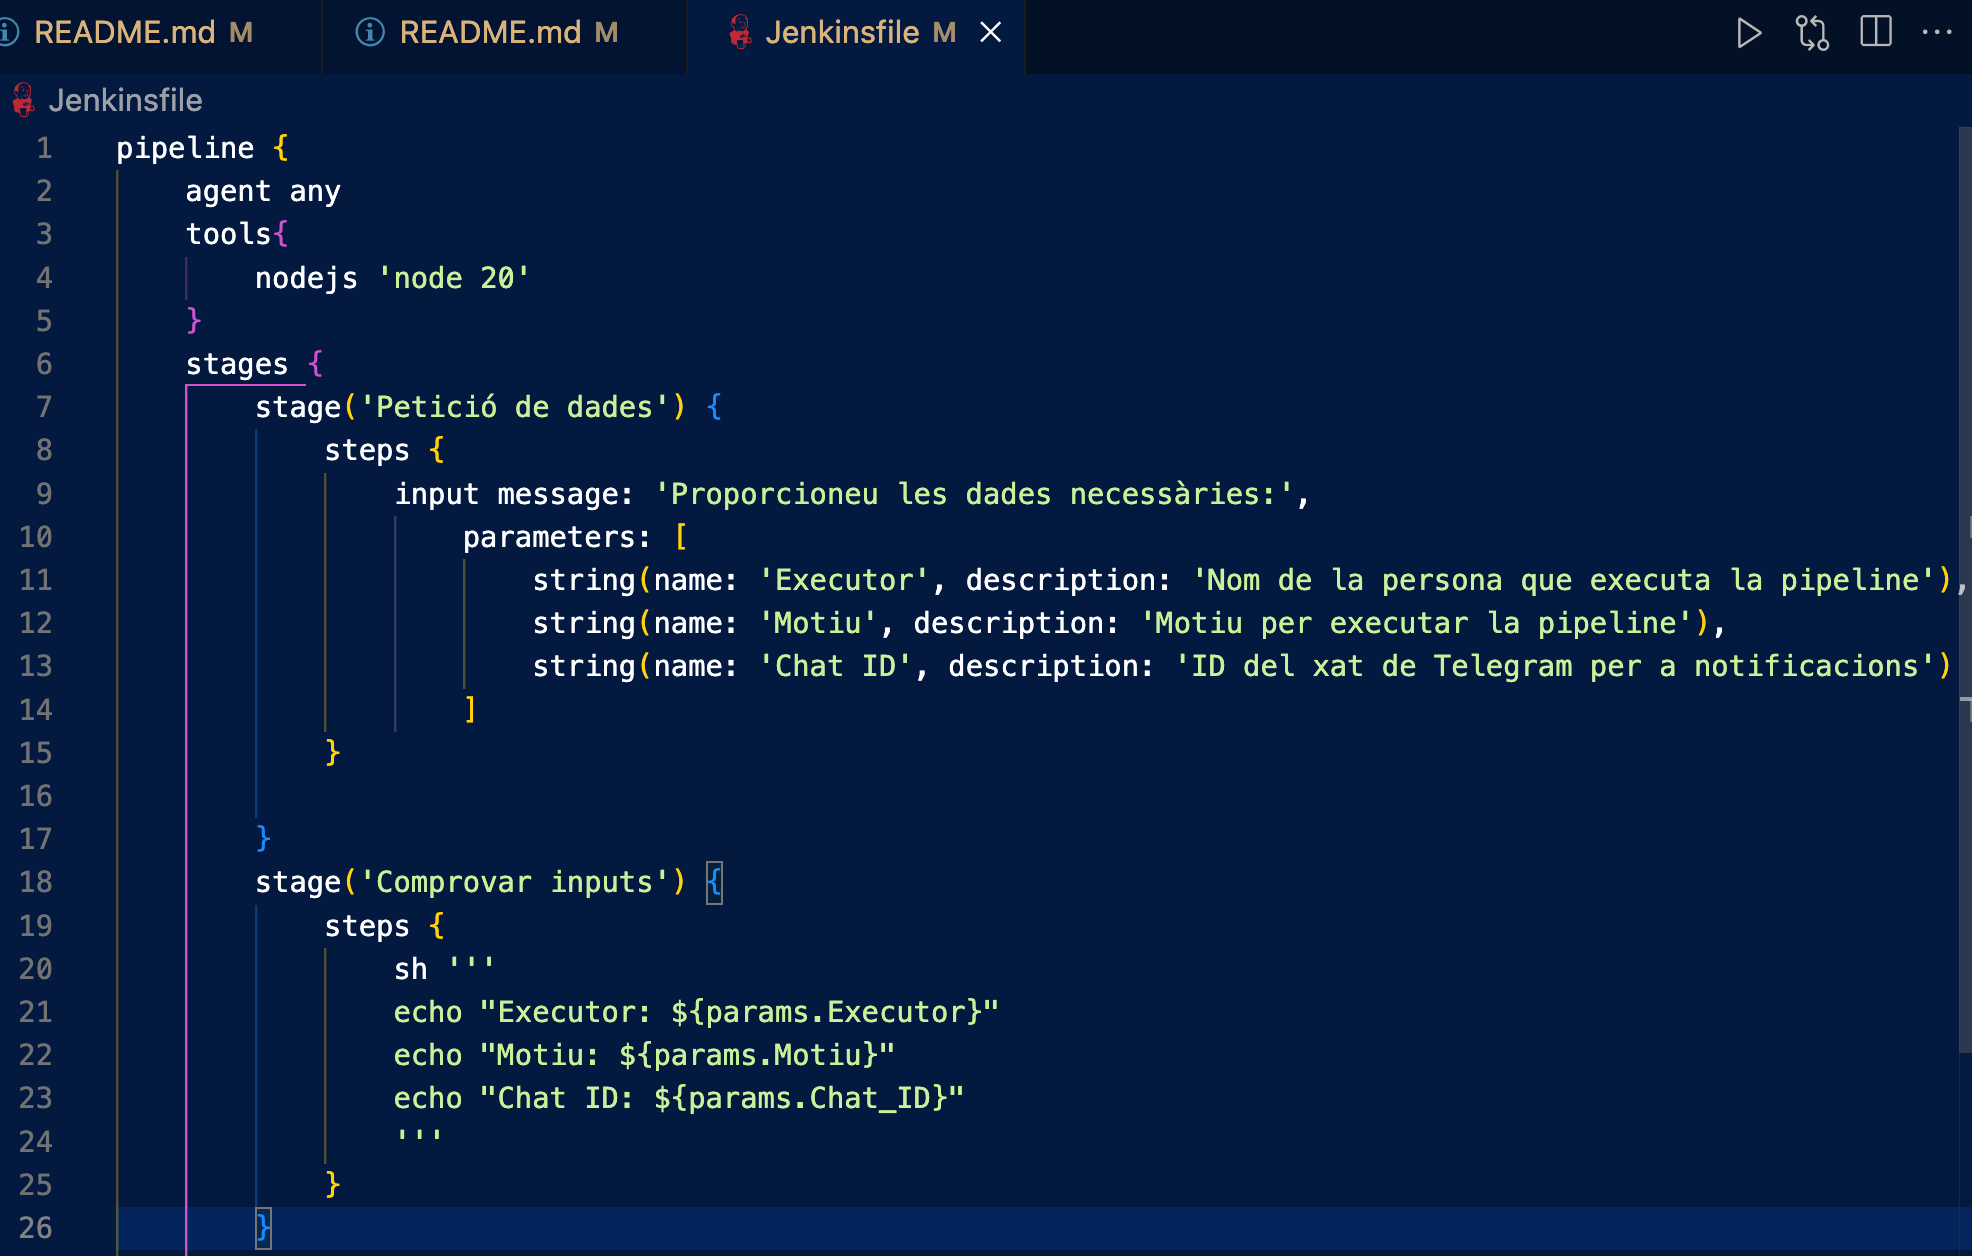
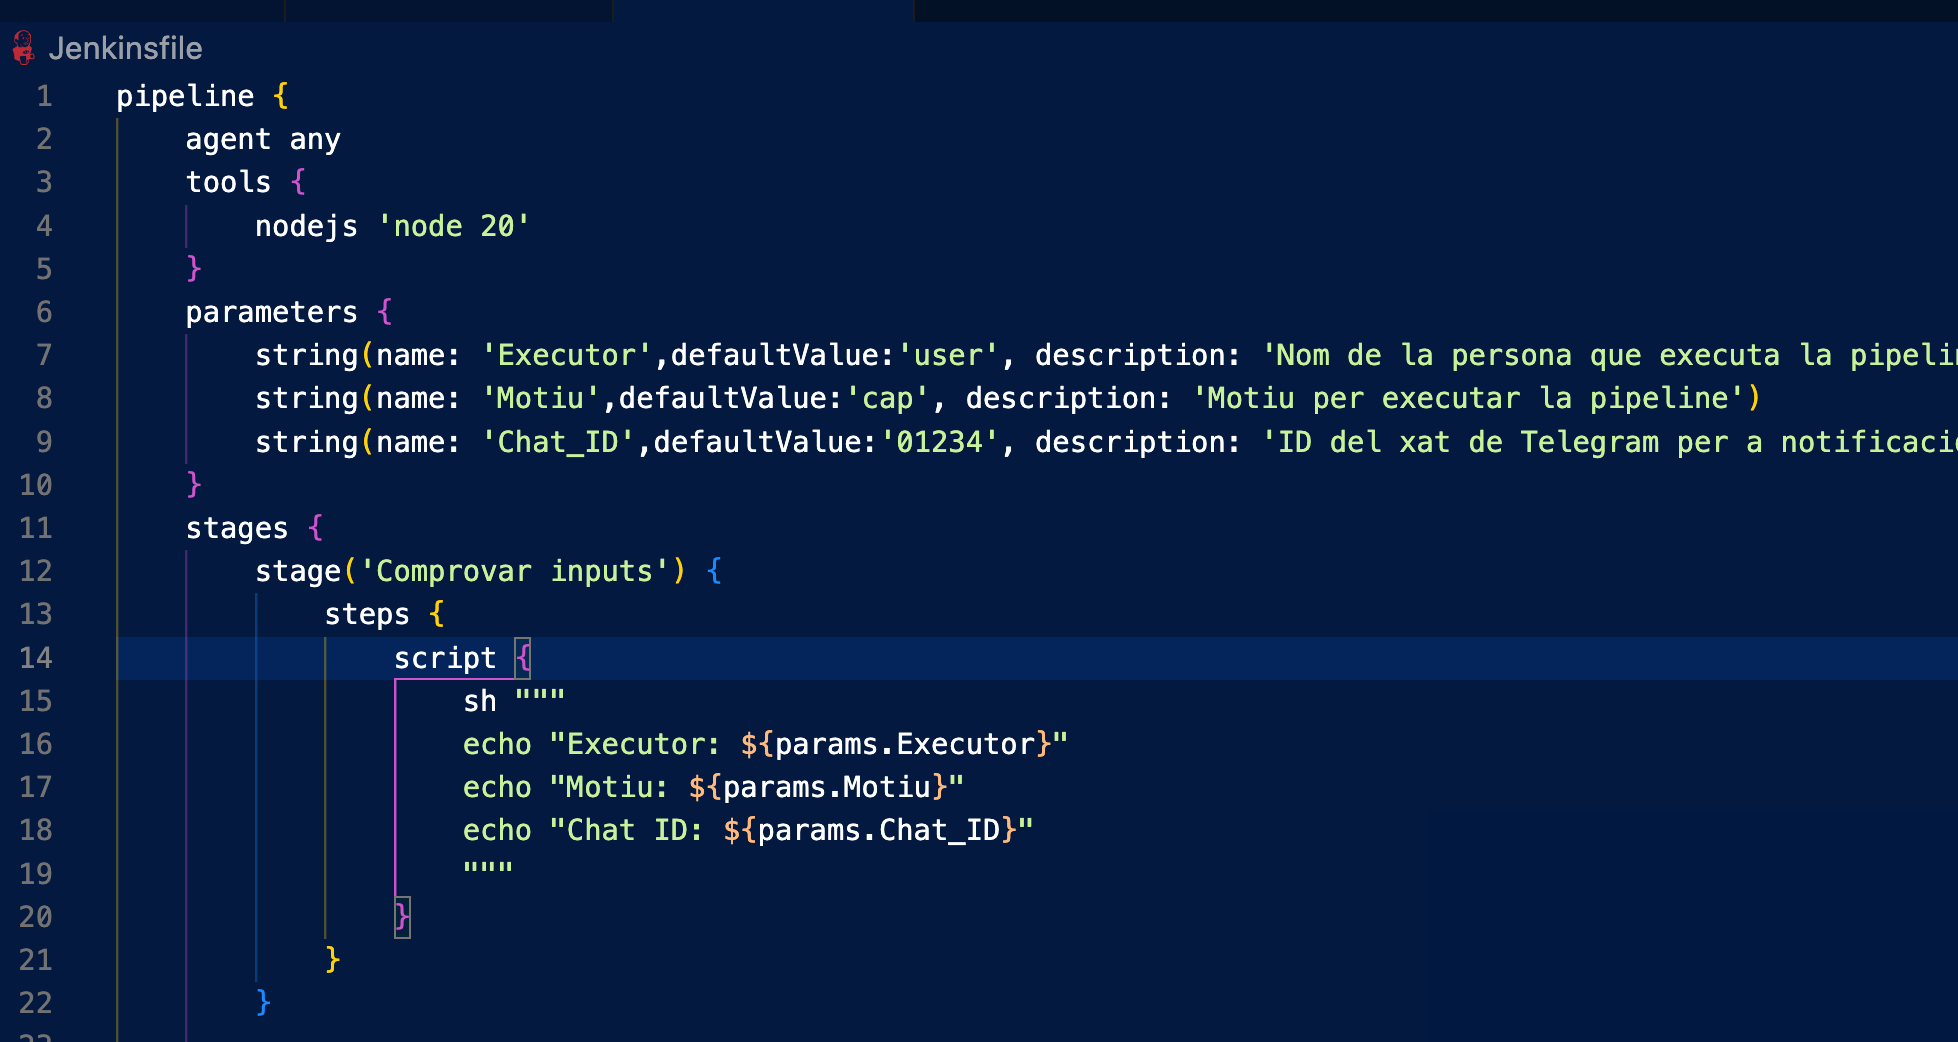
lint v1

diff --git a/app/routes/_index.tsx b/app/routes/_index.tsx
@@ -7,6 +7,11 @@ export const meta: MetaFunction = () => {
   ];
 };
 
+
+function hello (){
+  return "Hello"
+}
+
 export default function Index() {
   return (
     <div className="flex h-screen items-center justify-center">

diff --git a/README.md b/README.md
@@ -36,6 +36,7 @@ La vista del plugin, quedaria aixi en un primer moment.
 Hem de crear una primera stage que demane per pantalla al executar el pipeline: Executor, Motiu, Chat ID
 Per aixo creem un arxiu Jenkinsfile a l' arrel del projecte i creem una pipeline.
 
+
 #### Linter
 
 
